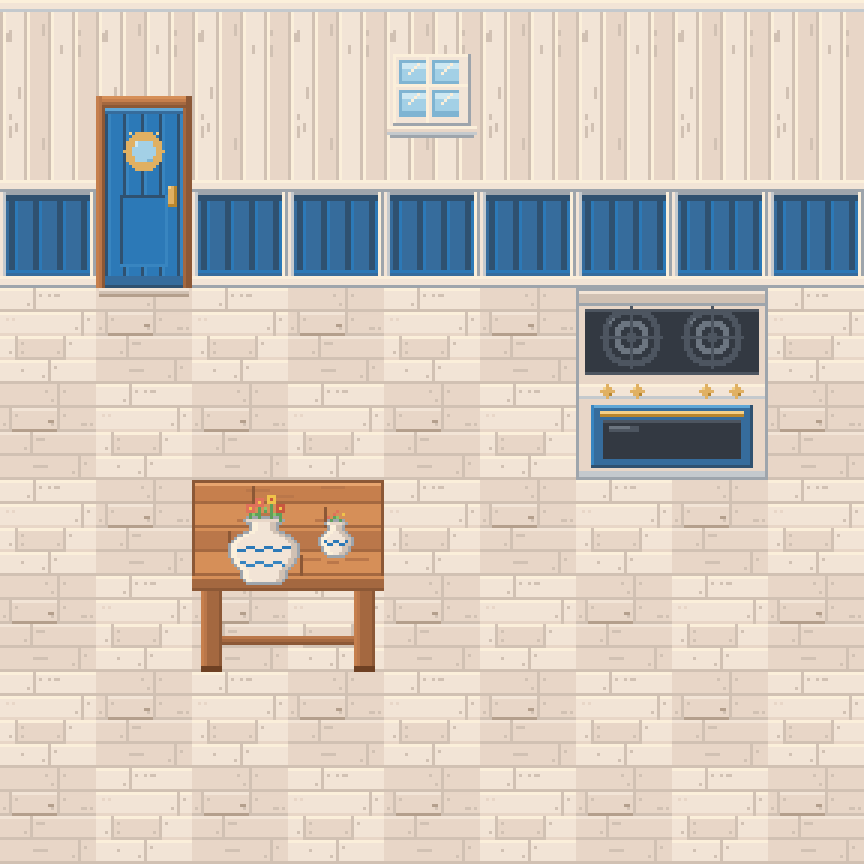
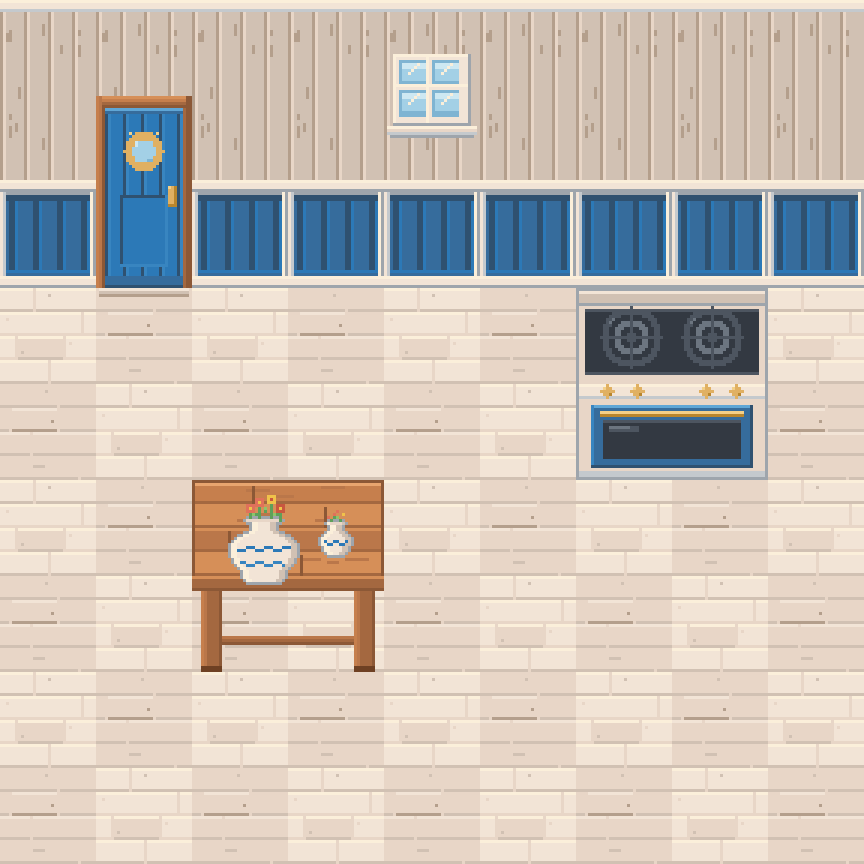
Pilot pixel art: wall/floor contrast, calmer floor (#61)
* Template and preview: things on the floor fill their cell and stand on its bottom edge, contact shadows, chairs tucked under tables, counters against the wall; game sprites anchor at the cell bottom

Claude-Session: https://claude.ai/code/session_017R2xVMGFyizhgT3oNq3RGh

* ผนังด้านข้างเป็นแถบต่อเนื่อง ไม่แบ่งเป็นช่อง

Claude-Session: https://claude.ai/code/session_017R2xVMGFyizhgT3oNq3RGh

* ปุ่มหมุนของ (ซื้อครั้งเดียว หมุนได้), เก้าอี้ 3 ภาพ, ลบรูปเก่าทั้งหมด

Claude-Session: https://claude.ai/code/session_017R2xVMGFyizhgT3oNq3RGh

* ลบสคริปต์ make_templates.py ที่อ้างภาพไอโซเมตริกที่ลบไปแล้ว

Claude-Session: https://claude.ai/code/session_017R2xVMGFyizhgT3oNq3RGh

* กริดละเอียดครึ่งช่องสำหรับของที่วาง (พื้น ผนัง ที่ดินยังเป็นช่องเดิม)

Claude-Session: https://claude.ai/code/session_017R2xVMGFyizhgT3oNq3RGh

* ของวางบนโต๊ะ (ชั้นแยก) และขอบพื้นต่อกัน (หญ้า ดิน ทราย) พร้อมแม่แบบ 64 ชิ้น

Claude-Session: https://claude.ai/code/session_017R2xVMGFyizhgT3oNq3RGh

* คลังเก็บเฟอร์นิเจอร์: เก็บเข้าคลังแทนการขายทันที วางจากคลังฟรี ขายจากคลังเมื่อผู้เล่นเลือกเอง

Claude-Session: https://claude.ai/code/session_017R2xVMGFyizhgT3oNq3RGh

* แม่แบบชุดเต็ม 133 ชิ้น 5 แผ่น (ใช้ในเกมตอนนี้ / จะเพิ่มต่อ / ไอคอน / ตัวละคร) พร้อมคำสั่ง GPT และตัวตรวจแผ่น

Claude-Session: https://claude.ai/code/session_017R2xVMGFyizhgT3oNq3RGh

* เครื่องมือตัดภาพเส้นร่างจากภาพเดียวหลายชิ้น (grid_guides.py) ให้ตัวสร้างแม่แบบใช้แทนรูปทรงง่าย ๆ
[…]

Changed region(s): [[0.0, 0.0, 1.0, 0.2188]]

diff --git a/tools/pixelart/shop_pilot.py b/tools/pixelart/shop_pilot.py
@@ -45,15 +45,14 @@ def floor(tones, seed, joint='w0'):
             # grain: short dark dashes
             for _ in range(1):
                 gx = rnd.randint(a, b - 4); gy = y0 + rnd.randint(2, 5)
-                for d in range(rnd.randint(3, 5)): p.set((gx + d) % 32, gy, tone[2] if rnd.random() < 0.6 else tone[1])
+                for d in range(rnd.randint(3, 5)): p.set((gx + d) % 32, gy, tone[2] if rnd.random() < 0.3 else tone[1])
         for j in xs:                                  # plank joint with two nails
             p.vline(j, y0, y0 + 7, joint)
-            p.set((j + 2) % 32, y0 + 2, joint); p.set((j - 2) % 32, y0 + 5, joint)
     return p.im
 
 # pale driftwood boards (a whitewashed seaside floor): light, so the warm wood furniture stands out from it
-def floor_a(): return floor([('c4', 'c3', 'c2'), ('c4', 'c3', 'c1'), ('c4', 'c2', 'c1')], 1, 'c1')
-def floor_b(): return floor([('c3', 'c2', 'c1'), ('c3', 'c2', 'c0'), ('c2', 'c2', 'c1')], 2, 'c1')
+def floor_a(): return floor([('c4', 'c3', 'c2'), ('c4', 'c3', 'c1'), ('c4', 'c2', 'c1')], 1, 'c2')
+def floor_b(): return floor([('c3', 'c2', 'c1'), ('c3', 'c2', 'c0'), ('c2', 'c2', 'c1')], 2, 'c2')
 
 # ---------- walls ----------
 def planks(p, x0, x1, y0, y1, a, b, hi, seam, w=8):
@@ -78,11 +77,11 @@ def panel(p, x0, x1, y0, y1):
 
 def wall_plain():
     p = Pix(32, 96)
-    planks(p, 0, 31, 4, 59, 'c3', 'c2', 'c4', 'c1')
+    planks(p, 0, 31, 4, 59, 'c1', 'c1', 'c2', 'c0')
     rnd = random.Random(7)
     for _ in range(14):                                           # wood flecks
         x = rnd.randint(0, 31); y = rnd.randint(6, 56)
-        if x % 8 not in (0, 1): p.vline(x, y, y + rnd.randint(1, 3), 'c1')
+        if x % 8 not in (0, 1): p.vline(x, y, y + rnd.randint(1, 3), 'c0')
     p.rect(0, 0, 31, 3, 'c3'); p.hline(0, 31, 0, 'c4'); p.hline(0, 31, 3, 'n1')               # top trim
     p.rect(0, 60, 31, 63, 'c3'); p.hline(0, 31, 60, 'c4'); p.hline(0, 31, 63, 'n0')            # chair rail
     panel(p, 0, 31, 64, 91)                                                                    # framed, recessed blue panel
@@ -100,7 +99,7 @@ def wall_side():
     """Seen from the side: a thick post with a grey-white outline on both edges. The game stacks it a cell at a time, so the top 32 px repeat: nothing across them."""
     p = Pix(8, 96)
     for y in range(96):
-        p.set(0, y, 'n0'); p.set(1, y, 'c4'); p.rect(2, y, 5, y, 'c3'); p.set(6, y, 'c2'); p.set(7, y, 'n0')
+        p.set(0, y, 'n0'); p.set(1, y, 'c2'); p.rect(2, y, 5, y, 'c1'); p.set(6, y, 'c0'); p.set(7, y, 'n0')
     p.rect(0, 60, 7, 63, 'c3'); p.hline(0, 7, 60, 'c4'); p.hline(0, 7, 63, 'n0'); p.set(0, 60, 'n0'); p.set(7, 60, 'n0')   # chair rail
     for y in range(64, 92):                                                                     # blue panel set into the post, darker than the frame
         p.set(0, y, 'n0'); p.set(1, y, 'c4'); p.rect(2, y, 5, y, 'b1'); p.set(6, y, 'c2'); p.set(7, y, 'n0')
